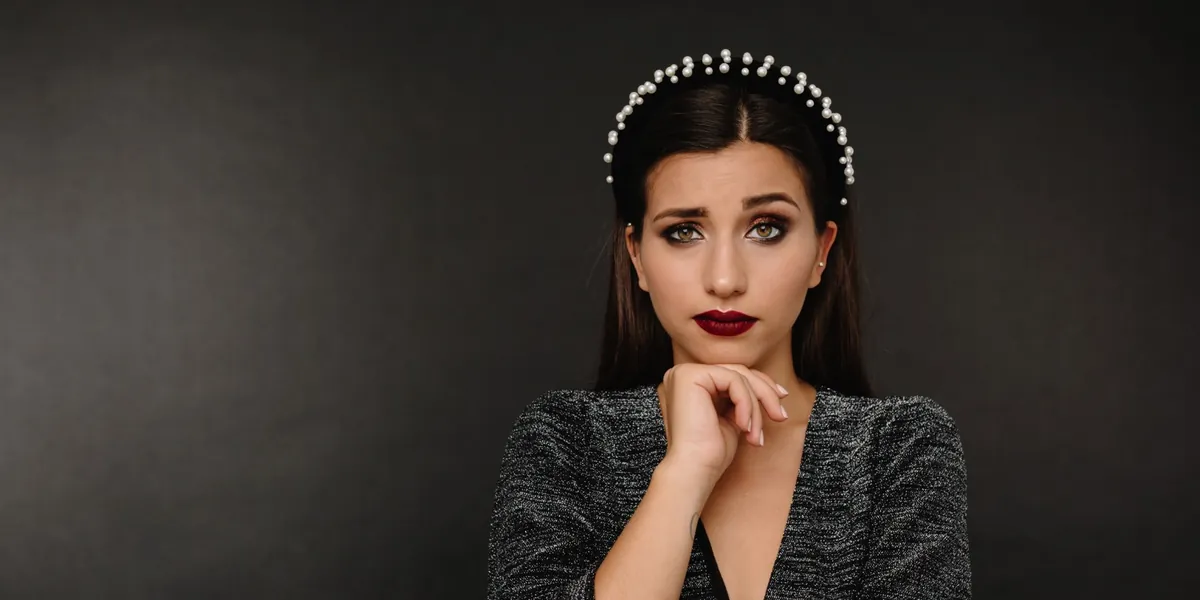
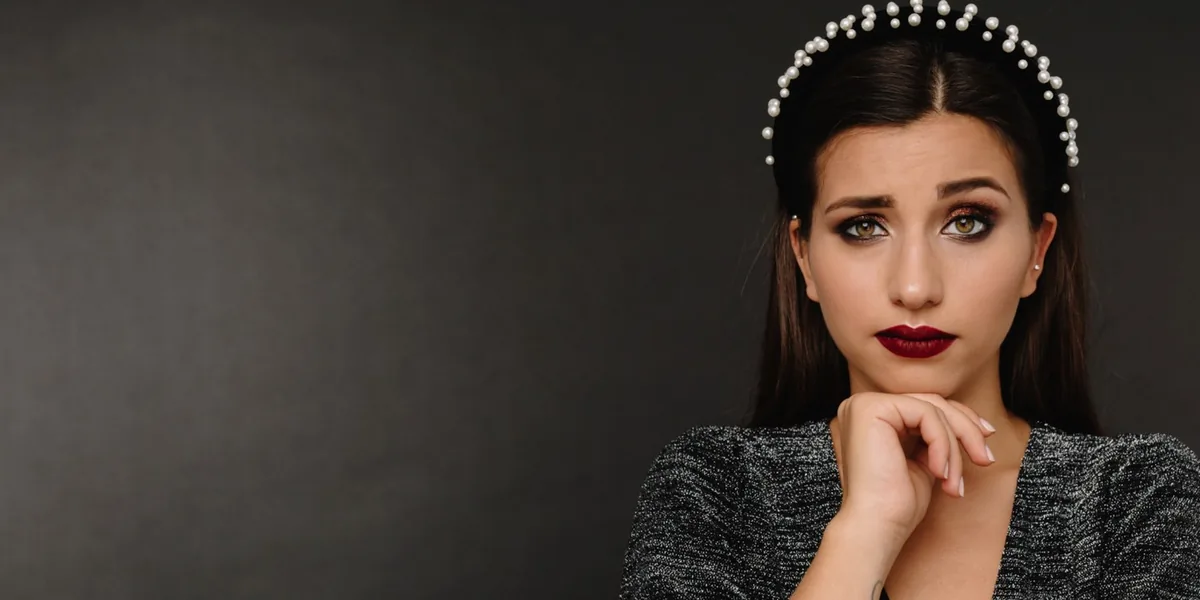
Hero: contour slide is phone-only; right-align the pearl slide
The contour shot now runs only on phones. CSS hides it from 641px up and
the rotation filters it out of the reel, so desktop and tablet cycle three
slides instead of playing a blank beat on the hidden one. Crossing the
breakpoint re-seats the rotation, since both the pace and the set of
slides in play change.

The pearl slide's desktop crop was being decided by the anti-zoom floor
rather than by where the subject should sit, which parked her mid-frame
under the headline. Placement wins for this one: she moves right and the
left half stays clear for the copy.

diff --git a/index.html b/index.html
@@ -53,7 +53,7 @@
 	<link rel="preconnect" href="https://fonts.googleapis.com">
 	<link rel="preconnect" href="https://fonts.gstatic.com" crossorigin>
 	<link href="https://fonts.googleapis.com/css2?family=Playfair+Display:ital,wght@0,600;0,700;1,600&display=swap" rel="stylesheet">
-	<link rel="stylesheet" href="css/styles.css?v=88">
+	<link rel="stylesheet" href="css/styles.css?v=89">
 	<!-- SEO:START — structured data (schema.org). Generated; keep in sync with visible page content. -->
 	<script type="application/ld+json">
 	{
@@ -347,7 +347,7 @@
 				</picture>
 				<picture>
 					<source media="(max-width: 640px)" srcset="assets/img/hero/hero-brush-mobile.webp" width="900" height="1200">
-					<img class="hero-slide" src="assets/img/hero/hero-brush.webp" srcset="assets/img/hero/hero-brush-1200.webp 1200w, assets/img/hero/hero-brush.webp 1920w" sizes="100vw" alt="Makeup artist sculpting a client's cheekbones with a contour brush" title="Professional makeup artistry training" width="1920" height="960" loading="lazy" decoding="async">
+					<img class="hero-slide hero-slide--phone" src="assets/img/hero/hero-brush.webp" srcset="assets/img/hero/hero-brush-1200.webp 1200w, assets/img/hero/hero-brush.webp 1920w" sizes="100vw" alt="Makeup artist sculpting a client's cheekbones with a contour brush" title="Professional makeup artistry training" width="1920" height="960" loading="lazy" decoding="async">
 				</picture>
 			</div>
 			<button type="button" class="hero-nav hero-nav--prev" aria-label="Previous slide">
@@ -845,7 +845,7 @@
 		</div>
 	</footer>
 
-	<script src="js/script.js?v=8"></script>
+	<script src="js/script.js?v=9"></script>
 </body>
 
 </html>

diff --git a/js/script.js b/js/script.js
@@ -774,9 +774,18 @@ document.querySelectorAll('.da-form select').forEach(function (sel) {
 	var PHONE = window.matchMedia('(max-width: 640px)');
 	function delay() { return PHONE.matches ? 3000 : 5000; }
 
+	// some slides only earn their place on a phone — CSS hides them above the
+	// breakpoint, so the rotation has to skip them or it plays a blank beat
+	function reel() {
+		return [].filter.call(slides, function (s) {
+			return PHONE.matches || !s.classList.contains('hero-slide--phone');
+		});
+	}
 	function show(i) {
-		index = (i + slides.length) % slides.length;
-		slides.forEach(function (s, n) { s.classList.toggle('is-active', n === index); });
+		var list = reel();
+		index = (i + list.length) % list.length;
+		slides.forEach(function (s) { s.classList.remove('is-active'); });
+		list[index].classList.add('is-active');
 	}
 	function go(step) { show(index + step); start(); }
 	function start() {
@@ -800,7 +809,9 @@ document.querySelectorAll('.da-form select').forEach(function (sel) {
 	});
 
 	// re-time the loop if the viewport crosses the breakpoint (rotation)
-	if (PHONE.addEventListener) PHONE.addEventListener('change', start);
+	// crossing the breakpoint changes both the pace and which slides are in
+	// play, so re-seat the rotation from the top rather than only re-timing it
+	if (PHONE.addEventListener) PHONE.addEventListener('change', function () { show(0); start(); });
 
 	start();
 })();

diff --git a/css/styles.css b/css/styles.css
@@ -3724,6 +3724,8 @@ section[id], [id].about, [id].courses { scroll-margin-top: 6rem; }
 	   model's face — drop them on phones; the slideshow still auto-advances. */
 	.hero-nav { display: none; }
 
+	.hero-slide--phone { display: block; }
+
 	/* Keep the phone hero in colour — the grayscale tint exists only to tame
 	   the magenta cast in the desktop PNG, which mobile no longer loads. */
 	.hero-slide--tinted { filter: brightness(.92) contrast(1.03); }
@@ -3733,4 +3735,10 @@ section[id], [id].about, [id].courses { scroll-margin-top: 6rem; }
 	   screen inside the fixed-height hero — so trim the next section instead. */
 	.about { padding-top: 1.25rem; }
 	.about-cols { gap: 1.75rem; }
+}
+
+/* A slide that only runs on phones. Above the breakpoint it is hidden and
+   the slideshow skips it (see the reel() filter in script.js). */
+@media (min-width: 641px) {
+	.hero-slide--phone { display: none; }
 }

diff --git a/beautician.html b/beautician.html
@@ -50,7 +50,7 @@
 	<meta name="twitter:description" content="Beginner-friendly Beautician Course in Hyderabad — facials, waxing, threading, grooming & basic makeup with 100% practical training at Venera Academy Dilsukhnagar.">
 	<meta name="twitter:image" content="https://www.venera-academy.com/assets/img/beauty-training-institute-hyderabad-hero.png">
 	<meta name="twitter:image:alt" content="Venera Academy Dilsukhnagar — beauty training institute in Hyderabad">
-	<link rel="stylesheet" href="css/styles.css?v=88">
+	<link rel="stylesheet" href="css/styles.css?v=89">
 	<!-- SEO:START — structured data (schema.org). Generated; keep in sync with visible page content. -->
 	<script type="application/ld+json">
 	{
@@ -935,7 +935,7 @@
 		</div>
 	</footer>
 
-	<script src="js/script.js?v=8"></script>
+	<script src="js/script.js?v=9"></script>
 </body>
 
 </html>

diff --git a/nail.html b/nail.html
@@ -50,7 +50,7 @@
 	<meta name="twitter:description" content="Nail Art & Nail Extensions Course in Hyderabad — gel nails, acrylic extensions & trending nail designs with 100% hands-on training at Venera Academy Dilsukhnagar.">
 	<meta name="twitter:image" content="https://www.venera-academy.com/assets/img/beauty-training-institute-hyderabad-hero.png">
 	<meta name="twitter:image:alt" content="Venera Academy Dilsukhnagar — beauty training institute in Hyderabad">
-	<link rel="stylesheet" href="css/styles.css?v=88">
+	<link rel="stylesheet" href="css/styles.css?v=89">
 	<!-- SEO:START — structured data (schema.org). Generated; keep in sync with visible page content. -->
 	<script type="application/ld+json">
 	{
@@ -902,7 +902,7 @@
 		</div>
 	</footer>
 
-	<script src="js/script.js?v=8"></script>
+	<script src="js/script.js?v=9"></script>
 </body>
 
 </html>

diff --git a/makeup-artist.html b/makeup-artist.html
@@ -50,7 +50,7 @@
 	<meta name="twitter:description" content="Become a certified professional Makeup Artist with Venera Academy Dilsukhnagar. 100% practical Bridal, HD, Party, Fashion & Airbrush makeup training in Hyderabad.">
 	<meta name="twitter:image" content="https://www.venera-academy.com/assets/img/beauty-training-institute-hyderabad-hero.png">
 	<meta name="twitter:image:alt" content="Venera Academy Dilsukhnagar — beauty training institute in Hyderabad">
-	<link rel="stylesheet" href="css/styles.css?v=88">
+	<link rel="stylesheet" href="css/styles.css?v=89">
 	<!-- SEO:START — structured data (schema.org). Generated; keep in sync with visible page content. -->
 	<script type="application/ld+json">
 	{
@@ -940,7 +940,7 @@
 		</div>
 	</footer>
 
-	<script src="js/script.js?v=8"></script>
+	<script src="js/script.js?v=9"></script>
 </body>
 
 </html>

diff --git a/cosmetologist.html b/cosmetologist.html
@@ -50,7 +50,7 @@
 	<meta name="twitter:description" content="Complete Cosmetology Course in Hyderabad — Skin, Hair, Makeup, Beauty Services & Salon Management with 100% practical training at Venera Academy Dilsukhnagar.">
 	<meta name="twitter:image" content="https://www.venera-academy.com/assets/img/beauty-training-institute-hyderabad-hero.png">
 	<meta name="twitter:image:alt" content="Venera Academy Dilsukhnagar — beauty training institute in Hyderabad">
-	<link rel="stylesheet" href="css/styles.css?v=88">
+	<link rel="stylesheet" href="css/styles.css?v=89">
 	<!-- SEO:START — structured data (schema.org). Generated; keep in sync with visible page content. -->
 	<script type="application/ld+json">
 	{
@@ -935,7 +935,7 @@
 		</div>
 	</footer>
 
-	<script src="js/script.js?v=8"></script>
+	<script src="js/script.js?v=9"></script>
 </body>
 
 </html>

diff --git a/hair-stylist.html b/hair-stylist.html
@@ -50,7 +50,7 @@
 	<meta name="twitter:description" content="Master cutting, coloring, keratin and advanced hair styling at Venera Academy Dilsukhnagar. 100% practical Hair Styling & Hairdressing Course in Hyderabad.">
 	<meta name="twitter:image" content="https://www.venera-academy.com/assets/img/beauty-training-institute-hyderabad-hero.png">
 	<meta name="twitter:image:alt" content="Venera Academy Dilsukhnagar — beauty training institute in Hyderabad">
-	<link rel="stylesheet" href="css/styles.css?v=88">
+	<link rel="stylesheet" href="css/styles.css?v=89">
 	<!-- SEO:START — structured data (schema.org). Generated; keep in sync with visible page content. -->
 	<script type="application/ld+json">
 	{
@@ -920,7 +920,7 @@
 		</div>
 	</footer>
 
-	<script src="js/script.js?v=8"></script>
+	<script src="js/script.js?v=9"></script>
 </body>
 
 </html>

diff --git a/skin-specialist.html b/skin-specialist.html
@@ -51,7 +51,7 @@
 	<meta name="twitter:description" content="">
 	<meta name="twitter:image" content="https://www.venera-academy.com/assets/img/beauty-training-institute-hyderabad-hero.png">
 	<meta name="twitter:image:alt" content="Venera Academy Dilsukhnagar — beauty training institute in Hyderabad">
-	<link rel="stylesheet" href="css/styles.css?v=88">
+	<link rel="stylesheet" href="css/styles.css?v=89">
 	<!-- SEO:START — structured data (schema.org). Generated; keep in sync with visible page content. -->
 	<script type="application/ld+json">
 	{
@@ -1216,7 +1216,7 @@
 		</div>
 	</footer>
 
-	<script src="js/script.js?v=8"></script>
+	<script src="js/script.js?v=9"></script>
 </body>
 
 </html>

diff --git a/about.html b/about.html
@@ -53,7 +53,7 @@
 	<link rel="preconnect" href="https://fonts.googleapis.com">
 	<link rel="preconnect" href="https://fonts.gstatic.com" crossorigin>
 	<link href="https://fonts.googleapis.com/css2?family=Playfair+Display:ital,wght@0,600;0,700;1,600&display=swap" rel="stylesheet">
-	<link rel="stylesheet" href="css/styles.css?v=88">
+	<link rel="stylesheet" href="css/styles.css?v=89">
 	<!-- SEO:START — structured data (schema.org). Generated; keep in sync with visible page content. -->
 	<script type="application/ld+json">
 	{
@@ -627,7 +627,7 @@
 		</div>
 	</footer>
 
-	<script src="js/script.js?v=8"></script>
+	<script src="js/script.js?v=9"></script>
 </body>
 
 </html>

diff --git a/blog-post.html b/blog-post.html
@@ -58,7 +58,7 @@
 	<link rel="preconnect" href="https://fonts.googleapis.com">
 	<link rel="preconnect" href="https://fonts.gstatic.com" crossorigin>
 	<link href="https://fonts.googleapis.com/css2?family=Playfair+Display:ital,wght@0,600;0,700;1,600&display=swap" rel="stylesheet">
-	<link rel="stylesheet" href="css/styles.css?v=88">
+	<link rel="stylesheet" href="css/styles.css?v=89">
 	<!-- SEO:START — structured data (schema.org). Generated; keep in sync with visible page content. -->
 	<script type="application/ld+json">
 	{
@@ -503,7 +503,7 @@
 		</div>
 	</footer>
 
-	<script src="js/script.js?v=8"></script>
+	<script src="js/script.js?v=9"></script>
 </body>
 
 </html>

diff --git a/blog.html b/blog.html
@@ -53,7 +53,7 @@
 	<link rel="preconnect" href="https://fonts.googleapis.com">
 	<link rel="preconnect" href="https://fonts.gstatic.com" crossorigin>
 	<link href="https://fonts.googleapis.com/css2?family=Playfair+Display:ital,wght@0,600;0,700;1,600&display=swap" rel="stylesheet">
-	<link rel="stylesheet" href="css/styles.css?v=88">
+	<link rel="stylesheet" href="css/styles.css?v=89">
 	<!-- SEO:START — structured data (schema.org). Generated; keep in sync with visible page content. -->
 	<script type="application/ld+json">
 	{
@@ -532,7 +532,7 @@
 		</div>
 	</footer>
 
-	<script src="js/script.js?v=8"></script>
+	<script src="js/script.js?v=9"></script>
 </body>
 
 </html>
